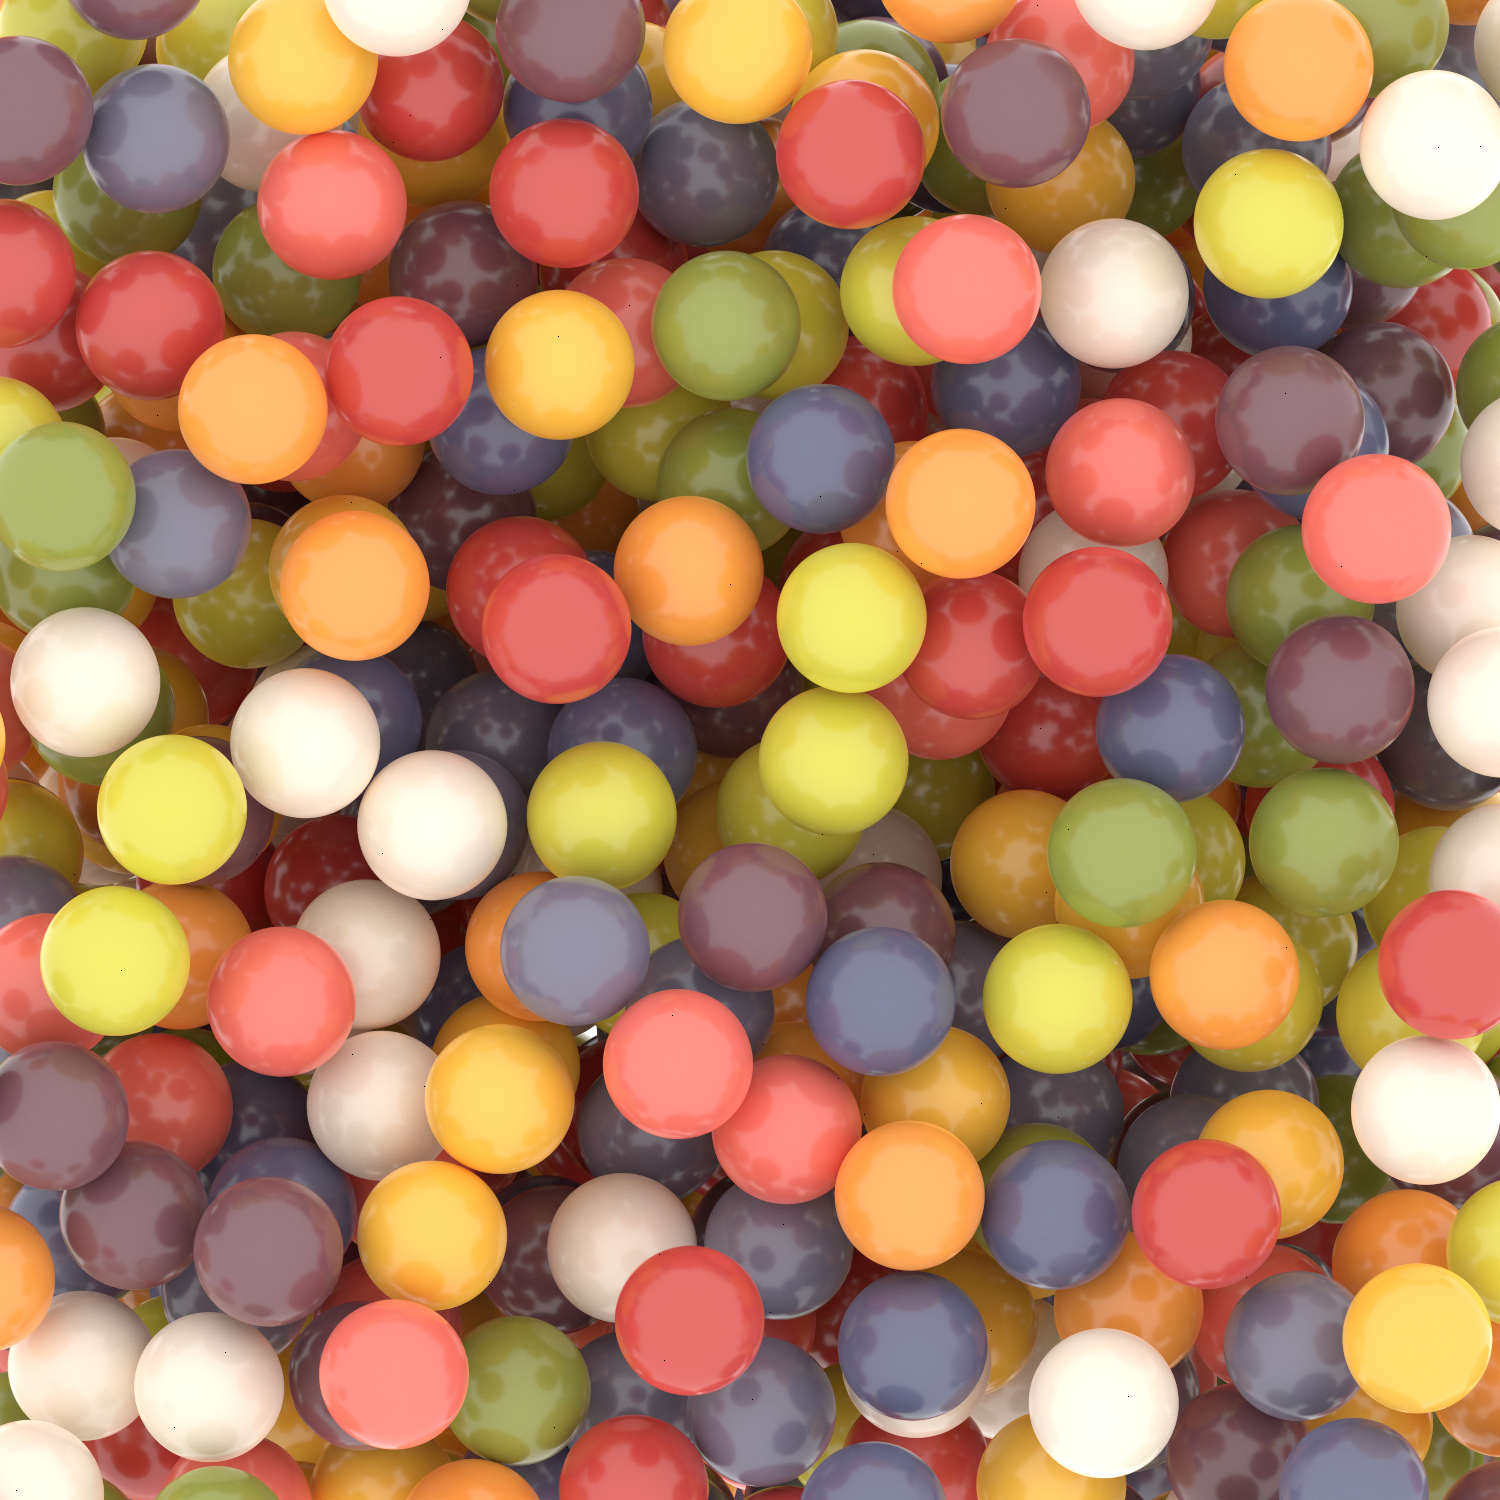
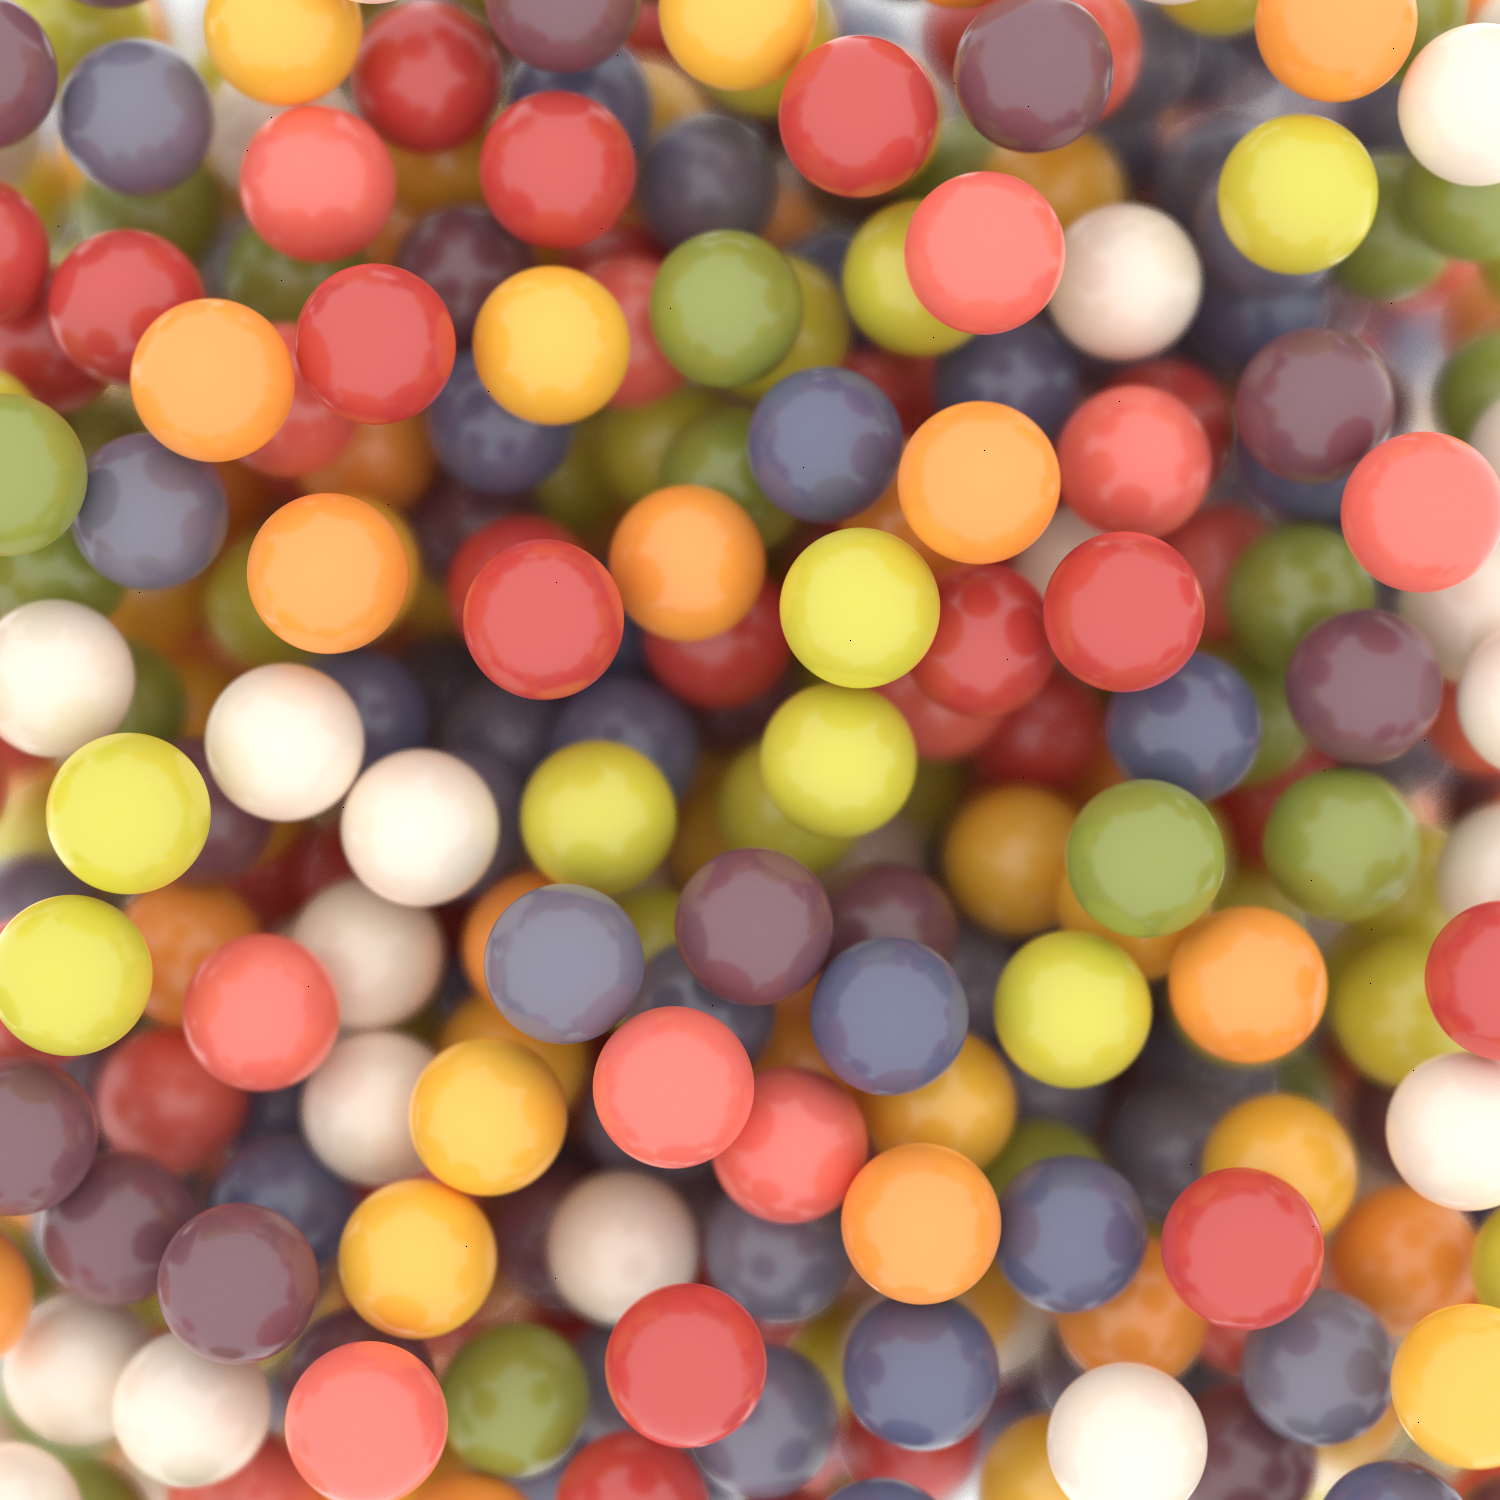
Fix gallery scripts to use new API

diff --git a/doc/gallery/gumballs.py b/doc/gallery/gumballs.py
@@ -4,6 +4,7 @@ import fresnel
 import numpy as np
 from matplotlib.colors import LinearSegmentedColormap
 import PIL
+import sys
 
 # First, we create a color map for gumballs.
 colors = [
@@ -44,8 +45,12 @@ geometry = fresnel.geometry.Sphere(
 )
 
 # Configure camera and lighting.
-scene.camera = fresnel.camera.fit(scene, view='front')
-scene.camera.height = 10
+scene.camera = fresnel.camera.Perspective(position=(0, 0, 25),
+                                          look_at=(0, 0, 0),
+                                          up=(0, 1, 0),
+                                          focal_length=0.5,
+                                          f_stop=0.25)
+scene.camera.focus_on = (0, 0, 5.6)
 scene.lights = fresnel.light.lightbox()
 scene.lights.append(
     fresnel.light.Light(direction=(0.3, -0.3, 1),
@@ -56,5 +61,6 @@ scene.lights.append(
 out = fresnel.pathtrace(scene, w=600, h=600, samples=128, light_samples=64)
 PIL.Image.fromarray(out[:], mode='RGBA').save('gumballs.png')
 
-out = fresnel.pathtrace(scene, w=1500, h=1500, samples=256, light_samples=64)
-PIL.Image.fromarray(out[:], mode='RGBA').save('gumballs-hires.png')
+if len(sys.argv) > 1 and sys.argv[1] == 'hires':
+    out = fresnel.pathtrace(scene, w=1500, h=1500, samples=256, light_samples=64)
+    PIL.Image.fromarray(out[:], mode='RGBA').save('gumballs-hires.png')

diff --git a/doc/gallery/cuboid.py b/doc/gallery/cuboid.py
@@ -3,10 +3,11 @@
 import fresnel
 import numpy
 import PIL
+import sys
 
 data = numpy.load('cuboids.npz')
 
-scene = fresnel.Scene(fresnel.Device(mode='cpu'))
+scene = fresnel.Scene()
 scene.lights = fresnel.light.lightbox()
 W, H, D = data['width']
 poly_info = fresnel.util.convex_polyhedron_from_vertices([
@@ -33,9 +34,10 @@ geometry.outline_material = fresnel.material.Material(color=(0.95, 0.93, 0.88),
                                                       roughness=0.1,
                                                       metal=1.0)
 
-scene.camera = fresnel.camera.fit(scene, view='front')
+scene.camera = fresnel.camera.Orthographic.fit(scene, view='front')
 out = fresnel.pathtrace(scene, samples=64, light_samples=32, w=580, h=580)
 PIL.Image.fromarray(out[:], mode='RGBA').save('cuboid.png')
 
-out = fresnel.pathtrace(scene, samples=256, light_samples=16, w=1380, h=1380)
-PIL.Image.fromarray(out[:], mode='RGBA').save('cuboid-hires.png')
+if len(sys.argv) > 1 and sys.argv[1] == 'hires':
+    out = fresnel.pathtrace(scene, samples=256, light_samples=16, w=1380, h=1380)
+    PIL.Image.fromarray(out[:], mode='RGBA').save('cuboid-hires.png')

diff --git a/doc/gallery/sphere.py b/doc/gallery/sphere.py
@@ -3,6 +3,7 @@
 import fresnel
 import numpy
 import PIL
+import sys
 
 data = numpy.load('spheres.npz')
 
@@ -19,8 +20,10 @@ geometry.material = fresnel.material.Material(color=fresnel.color.linear(
                                               roughness=0.8,
                                               specular=0.2)
 
+scene.camera = fresnel.camera.Orthographic.fit(scene)
 out = fresnel.pathtrace(scene, samples=64, light_samples=32, w=580, h=580)
 PIL.Image.fromarray(out[:], mode='RGBA').save('sphere.png')
 
-out = fresnel.pathtrace(scene, samples=256, light_samples=16, w=1380, h=1380)
-PIL.Image.fromarray(out[:], mode='RGBA').save('sphere-hires.png')
+if len(sys.argv) > 1 and sys.argv[1] == 'hires':
+    out = fresnel.pathtrace(scene, samples=256, light_samples=16, w=1380, h=1380)
+    PIL.Image.fromarray(out[:], mode='RGBA').save('sphere-hires.png')
